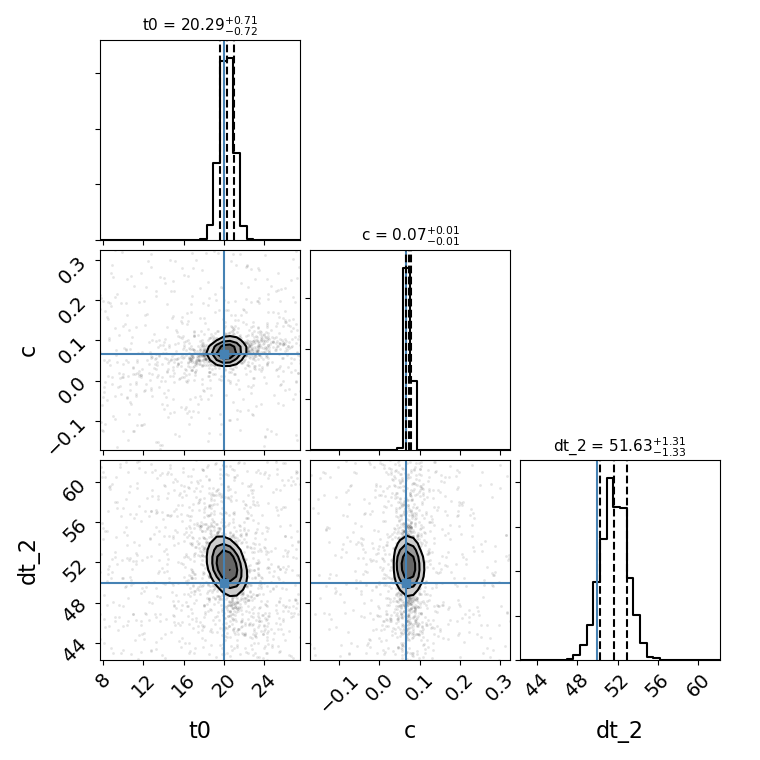
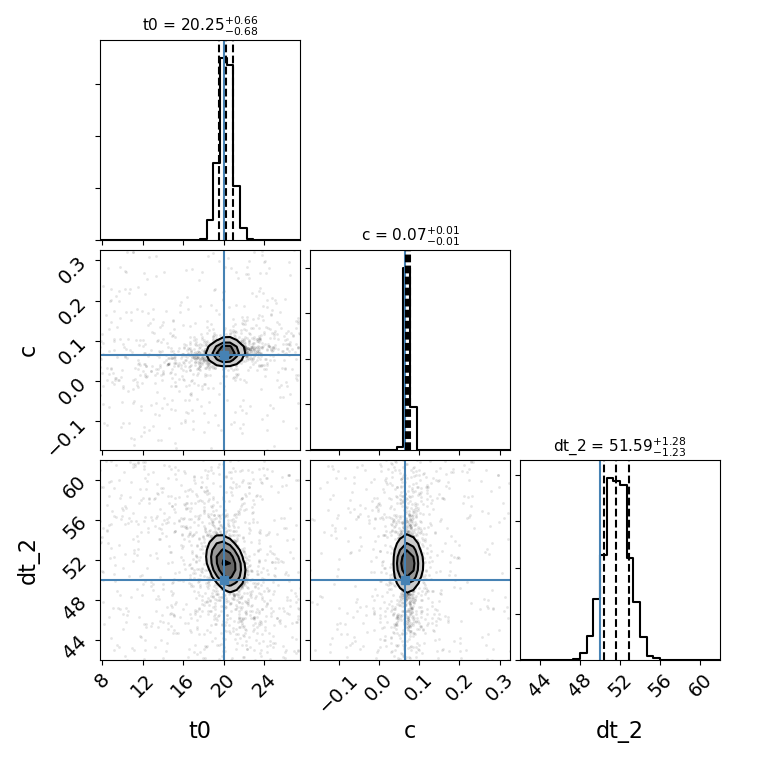
fixed series example on docs

diff --git a/docs/source/_examples/plot_fitting.py b/docs/source/_examples/plot_fitting.py
@@ -8,13 +8,13 @@ with SNTD.
 """
 
 ###############################################################
-# There are 3 methods built into SNTD to measure time delays 
+# There are 3 methods built into SNTD to measure time delays
 # (parallel, series, color). They are accessed by the same 
 # function: :py:func:`~sntd.fitting.fit_data` . 
 # Here ``myMISN`` was generated in the :ref:`examples/plot_sim:Simulating Supernovae` part 
 # of the documentation, using the :py:func:`~sntd.simulation.createMultiplyImagedSN` 
 # function. The true delay for all of these fits is 50 days.
-# You can batch process using any or all of these methods as well 
+# You can batch process (with sbatch or multiprocessing) using any or all of these methods as well 
 # (see :ref:`examples:Batch Processing Time Delay Measurements`)
 #
 #  -----------------------------------

diff --git a/docs/source/examples/plot_fitting.py b/docs/source/examples/plot_fitting.py
@@ -8,13 +8,13 @@ with SNTD.
 """
 
 ###############################################################
-# There are 3 methods built into SNTD to measure time delays 
+# There are 3 methods built into SNTD to measure time delays
 # (parallel, series, color). They are accessed by the same 
 # function: :py:func:`~sntd.fitting.fit_data` . 
 # Here ``myMISN`` was generated in the :ref:`examples/plot_sim:Simulating Supernovae` part 
 # of the documentation, using the :py:func:`~sntd.simulation.createMultiplyImagedSN` 
 # function. The true delay for all of these fits is 50 days.
-# You can batch process using any or all of these methods as well 
+# You can batch process (with sbatch or multiprocessing) using any or all of these methods as well 
 # (see :ref:`examples:Batch Processing Time Delay Measurements`)
 #
 #  -----------------------------------

diff --git a/docs/source/examples/plot_fitting.rst b/docs/source/examples/plot_fitting.rst
@@ -16,13 +16,13 @@ Measure Time Delays
 A series of examples demonstrating various fitting options 
 with SNTD.
 
-There are 3 methods built into SNTD to measure time delays 
+There are 3 methods built into SNTD to measure time delays
 (parallel, series, color). They are accessed by the same 
 function: :py:func:`~sntd.fitting.fit_data` . 
 Here ``myMISN`` was generated in the :ref:`examples/plot_sim:Simulating Supernovae` part 
 of the documentation, using the :py:func:`~sntd.simulation.createMultiplyImagedSN` 
 function. The true delay for all of these fits is 50 days.
-You can batch process using any or all of these methods as well 
+You can batch process (with sbatch or multiprocessing) using any or all of these methods as well 
 (see :ref:`examples:Batch Processing Time Delay Measurements`)
 
  -----------------------------------
@@ -78,10 +78,10 @@ You can batch process using any or all of these methods as well
 
  .. code-block:: none
 
-    {'image_1': 0, 'image_2': 49.8599218853653}
-    {'image_1': array([0, 0]), 'image_2': array([-0.13931291,  0.1445786 ])}
-    {'image_1': 1, 'image_2': 0.5025850488075057}
-    {'image_1': array([0, 0]), 'image_2': array([-0.00460646,  0.00456556])}
+    {'image_1': 0, 'image_2': 49.842057953239205}
+    {'image_1': array([0, 0]), 'image_2': array([-0.10569226,  0.17109392])}
+    {'image_1': 1, 'image_2': 0.5028390253713437}
+    {'image_1': array([0, 0]), 'image_2': array([-0.0042554 ,  0.00486965])}
 
     <Figure size 970x970 with 16 Axes>
 
@@ -135,14 +135,12 @@ Other methods are called in a similar fashion, with a couple of extra arguments:
 
  .. code-block:: none
 
-    {'image_1': 0, 'image_2': 46.28787407994734}
-    {'image_1': array([0, 0]), 'image_2': array([-0.01157278,  0.01552872])}
-    {'image_1': 1, 'image_2': 0.6498218888008135}
-    {'image_1': array([0, 0]), 'image_2': array([-0.00232995,  0.00239059])}
-    WARNING:root:Too few points to create valid contours
-    WARNING:root:Too few points to create valid contours
-    WARNING:root:Too few points to create valid contours
-    WARNING:root:Too few points to create valid contours
+    [ 2.13725819e-05  1.99573804e+01 -1.43577978e-01  6.61535915e-02
+      4.98389494e+01  5.04010024e-01]
+    {'image_1': 0, 'image_2': 49.8321750134354}
+    {'image_1': array([0, 0]), 'image_2': array([-0.06593141,  0.0811852 ])}
+    {'image_1': 1, 'image_2': 0.5039919011518899}
+    {'image_1': array([0, 0]), 'image_2': array([-0.00146214,  0.00156142])}
 
     <Figure size 1390x1390 with 36 Axes>
 
@@ -192,8 +190,8 @@ argument.
 
  .. code-block:: none
 
-    {'image_1': 0, 'image_2': 51.62474583859374}
-    {'image_1': array([0, 0]), 'image_2': array([-1.33499566,  1.31253678])}
+    {'image_1': 0, 'image_2': 51.59180420703214}
+    {'image_1': array([0, 0]), 'image_2': array([-1.2334528 ,  1.28406879])}
 
     <Figure size 760x760 with 9 Axes>
 
@@ -232,10 +230,10 @@ You can include your fit from the parallel method as a prior on light curve and 
 
  .. code-block:: none
 
-    {'image_1': 0, 'image_2': 49.851237220541684}
-    {'image_1': array([0, 0]), 'image_2': array([-0.14312314,  0.15251288])}
-    {'image_1': 0, 'image_2': 49.830178002680626}
-    {'image_1': array([0, 0]), 'image_2': array([-0.31193061,  0.28094124])}
+    {'image_1': 0, 'image_2': 49.85636058457829}
+    {'image_1': array([0, 0]), 'image_2': array([-0.1403925 ,  0.14674745])}
+    {'image_1': 0, 'image_2': 49.80469869083909}
+    {'image_1': array([0, 0]), 'image_2': array([-0.25457953,  0.30725668])}
 
 
 
@@ -270,7 +268,7 @@ extreme dust in the source and lens frames (your final simulations may look slig
 
  .. code-block:: none
 
-    lensebv: 0.48387096774193544 hostebv: 0.3225806451612903 c: 0.07112681237378883
+    lensebv: 0.48387096774193544 hostebv: 0.3225806451612903 c: -0.04457818351436854
 
 
 
@@ -304,9 +302,9 @@ Okay, now we can fit the MISN first without taking these effects into account:
 
  .. code-block:: none
 
-    {'image_1': 0, 'image_2': 59.307049586590516}
-    {'image_1': array([0, 0]), 'image_2': array([-0.37066751,  0.40624268])}
-    c: 0.775167607727538
+    {'image_1': 0, 'image_2': 60.28541672468899}
+    {'image_1': array([0, 0]), 'image_2': array([-0.99299896,  0.99442813])}
+    c: 0.66434516506831
 
     <Figure size 1000x1000 with 2 Axes>
 
@@ -347,9 +345,9 @@ as it attempts to compensate for extinction without a propagation effect. Now le
 
  .. code-block:: none
 
-    {'image_1': 0, 'image_2': 59.2875364087285}
-    {'image_1': array([0, 0]), 'image_2': array([-0.38235675,  0.42474486])}
-    c: 0.41839482903274644 lensebv: 0.22774365383286208 hostebv: 0.17530664011282607
+    {'image_1': 0, 'image_2': 60.32107300747058}
+    {'image_1': array([0, 0]), 'image_2': array([-0.95490479,  1.05140333])}
+    c: 0.440306959014058 lensebv: 0.13754135258838374 hostebv: 0.12419446982968683
 
     <Figure size 1000x1000 with 2 Axes>
 
@@ -361,7 +359,7 @@ more accurate.
 
 .. rst-class:: sphx-glr-timing
 
-   **Total running time of the script:** ( 41 minutes  1.204 seconds)
+   **Total running time of the script:** ( 4 minutes  47.043 seconds)
 
 
 .. _sphx_glr_download_examples_plot_fitting.py:

diff --git a/docs/source/examples/sg_execution_times.rst b/docs/source/examples/sg_execution_times.rst
@@ -5,14 +5,14 @@
 
 Computation times
 =================
-**41:40.145** total execution time for **examples** files:
+**04:47.043** total execution time for **examples** files:
 
 +----------------------------------------------------------------+-----------+--------+
-| :ref:`sphx_glr_examples_plot_fitting.py` (``plot_fitting.py``) | 41:01.204 | 0.0 MB |
+| :ref:`sphx_glr_examples_plot_fitting.py` (``plot_fitting.py``) | 04:47.043 | 0.0 MB |
 +----------------------------------------------------------------+-----------+--------+
-| :ref:`sphx_glr_examples_plot_micro.py` (``plot_micro.py``)     | 00:38.190 | 0.0 MB |
+| :ref:`sphx_glr_examples_plot_micro.py` (``plot_micro.py``)     | 00:00.000 | 0.0 MB |
 +----------------------------------------------------------------+-----------+--------+
-| :ref:`sphx_glr_examples_plot_sim.py` (``plot_sim.py``)         | 00:00.751 | 0.0 MB |
+| :ref:`sphx_glr_examples_plot_sim.py` (``plot_sim.py``)         | 00:00.000 | 0.0 MB |
 +----------------------------------------------------------------+-----------+--------+
 | :ref:`sphx_glr_examples_plot_survey.py` (``plot_survey.py``)   | 00:00.000 | 0.0 MB |
 +----------------------------------------------------------------+-----------+--------+
